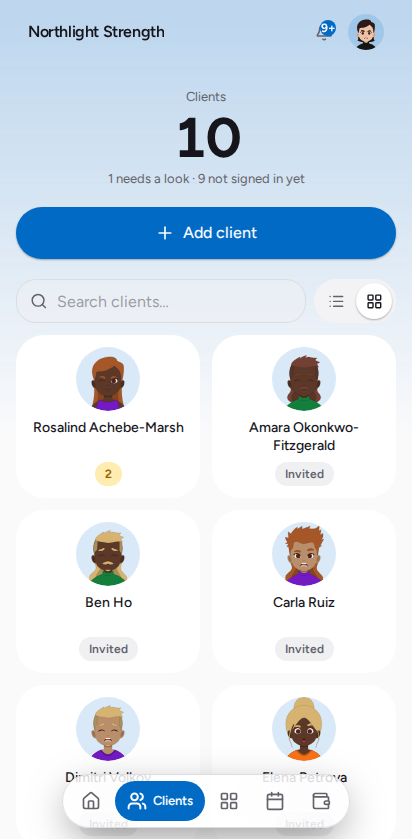
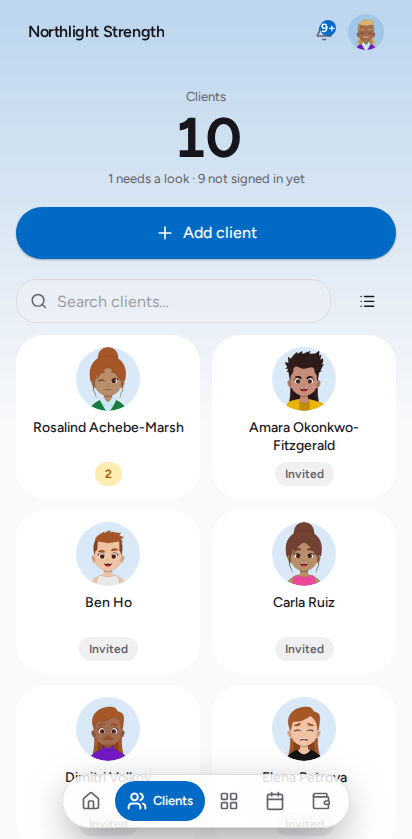
Pin the search, and take the Library's toggle instead of inventing one
THE SEARCH IS ALWAYS THERE. It appeared at eight items, on the reasoning that a
search box above four rows is a control asking to be used on a list you can
already see. That is true of the CONTROL and false of the HEADER: one that grows
a field when the ninth item arrives changes shape under someone who has already
learned it, and until then the screen looks like a screen you cannot search —
which is the thing people ask about. Every app this borrows from keeps it
pinned. It also removed the box mid-keystroke, since the query changes the count
that decided whether to show the box.

THE TOGGLE IS THE LIBRARY'S. I built a two-button segmented pill, which is the
shape you reach for when the choice is a setting. It is not: there are exactly
two views and you are always in one of them, so half the pill is permanently a
no-op occupying the width the search field wants. The Library already had the
right answer — one ghost button carrying the icon of the OTHER view, labelled
with where it takes you — and that is now the shared `ViewToggle`, with both
Library collections switched onto it.

Which also fixed something the Library did not know it had: its view reset to
the list on every visit, because the state was a plain `useState`. Both
libraries now use `useCollectionView`, so the choice is remembered per
collection the way the roster's is — the thing that makes a view worth switching
more than once.

No `aria-pressed` on it. It is a button that switches, not a toggle holding a
[…]

diff --git a/packages/ui/src/collection.tsx b/packages/ui/src/collection.tsx
@@ -28,11 +28,11 @@
  * owns what one item looks like.
  */
 
-import { useRef, useState, type ReactNode } from "react";
+import { useState, type ReactNode } from "react";
 import { motion } from "motion/react";
 import { LayoutGrid, List, Search, type LucideIcon } from "./lib/icons.js";
 import { contentIn, contentStagger } from "./lib/animation.js";
-import { Field } from "./primitives.js";
+import { Button, Field } from "./primitives.js";
 import { EmptyState } from "./shell.js";
 import { LoadError } from "./patterns.js";
 import { SkeletonLine, SkeletonList } from "./skeleton.js";
@@ -92,14 +92,6 @@ export interface CollectionProps<T> {
   /** Controlled search. Omit for a collection nobody would search. */
   query?: string;
   onQuery?: (q: string) => void;
-  /**
-   * How many items before the search box appears.
-   *
-   * A search box above four rows is a control asking to be used on a list you
-   * can already see (§7). Eight is where scrolling starts being the
-   * alternative on a phone.
-   */
-  searchFrom?: number;
 
   /** The one primary action, on the header row beside the controls. */
   action?: ReactNode;
@@ -122,7 +114,6 @@ export function Collection<T>({
   onView,
   query,
   onQuery,
-  searchFrom = 8,
   action,
   empty,
   renderList,
@@ -133,16 +124,19 @@ export function Collection<T>({
   const searching = Boolean(query?.trim());
   const grid = view === "grid" && Boolean(renderGrid);
   /*
-   * The search box stays once it has appeared.
+   * The search box is always there, if the collection has one at all.
    *
-   * Its trigger is the item count, and the query CHANGES the item count — so a
-   * search that narrows the list past the threshold would remove the control
-   * being typed into, mid-keystroke. A ref rather than state: this only ever
-   * latches on, so it never needs to cause a render of its own.
+   * It used to appear at eight items, on the reasoning that a search above four
+   * rows is a control asking to be used on a list you can already see. That is
+   * true of the control and false of the HEADER: a header that grows a field
+   * when the ninth item is added changes shape under someone who has learned
+   * it, and until then the screen looks like a screen you cannot search — which
+   * is the thing people ask about. Every app this borrows from keeps it pinned.
+   *
+   * It also removed the box mid-keystroke, since the query changes the count
+   * that decided whether to show the box.
    */
-  const wasSearchable = useRef(false);
-  if ((items?.length ?? 0) >= searchFrom) wasSearchable.current = true;
-  const showSearch = Boolean(onQuery) && (wasSearchable.current || searching);
+  const showSearch = Boolean(onQuery);
 
   const header = (showSearch || onView || action) && (
     <div className="flex items-center gap-2">
@@ -218,36 +212,36 @@ export function Collection<T>({
 }
 
 /**
- * List or grid. Two icon buttons rather than a labelled segmented control: it
- * sits on a row with a search field and a primary action, and words there cost
- * the search box the width it needs on a phone.
+ * List or grid — ONE button, showing where it takes you.
+ *
+ * This was a two-button segmented pill, which is the shape you reach for when
+ * the choice is a setting. It is not: there are exactly two views and you are
+ * always in one of them, so the second button is permanently a no-op taking up
+ * the width the search field wants. A single control carrying the icon of the
+ * OTHER view says the same thing in half the space and reads as an action
+ * rather than as configuration — which is what the Library had already got
+ * right, and this is now the one implementation both use.
+ *
+ * The label names the DESTINATION for the same reason ("Show as a grid"), and
+ * there is no `aria-pressed`: this is not a toggle button holding a state, it
+ * is a button that switches.
  */
 export function ViewToggle({ value, onChange, noun }: {
   value: CollectionView;
   onChange: (v: CollectionView) => void;
   noun?: string;
 }) {
-  const opts = [
-    { v: "list" as const, icon: List, label: `Show ${noun ?? "items"} as a list` },
-    { v: "grid" as const, icon: LayoutGrid, label: `Show ${noun ?? "items"} as a grid` },
-  ];
+  const next = value === "list" ? "grid" : "list";
+  const Icon = value === "list" ? LayoutGrid : List;
   return (
-    <div role="group" className="flex shrink-0 items-center gap-0.5 rounded-full bg-surface-2 p-1">
-      {opts.map((o) => (
-        <button
-          key={o.v}
-          onClick={() => onChange(o.v)}
-          aria-label={o.label}
-          aria-pressed={value === o.v}
-          className={cn(
-            "grid size-9 place-items-center rounded-full outline-none ring-ring transition-colors focus-visible:ring-2 [&_svg]:size-[1.05rem]",
-            value === o.v ? "bg-card text-foreground shadow-sm" : "text-muted-foreground hover:text-foreground",
-          )}
-        >
-          <o.icon aria-hidden />
-        </button>
-      ))}
-    </div>
+    <Button
+      variant="ghost"
+      className="shrink-0"
+      aria-label={`Show ${noun ?? "items"} as a ${next}`}
+      onClick={() => onChange(next)}
+    >
+      <Icon aria-hidden />
+    </Button>
   );
 }
 

diff --git a/apps/app/src/screens/coach/Library.tsx b/apps/app/src/screens/coach/Library.tsx
@@ -2,7 +2,7 @@
 
 import { useCallback, useEffect, useState, type ReactNode } from "react";
 import { useNavigate, useParams } from "react-router-dom";
-import { Button, Card, Badge, Field, Textarea, Sheet, Skeleton, SegmentedControl, Chip, Page, Stagger, EmptyState, cn, Reveal, SkeletonRow, SkeletonLine, Avatar, Search, Plus, Trash2, Archive, AlertTriangle, Dumbbell, Utensils, LayoutGrid, List, PencilLine, ArrowLeftRight, Ellipsis, Send, History, Group, Row } from "@4dl/ui";
+import { Button, Card, Badge, Field, Textarea, Sheet, Skeleton, SegmentedControl, Chip, Page, Stagger, EmptyState, cn, Reveal, SkeletonRow, SkeletonLine, Avatar, Search, Plus, Trash2, Archive, AlertTriangle, Dumbbell, Utensils, LayoutGrid, PencilLine, ArrowLeftRight, Ellipsis, Send, History, Group, Row, ViewToggle, useCollectionView } from "@4dl/ui";
 import { MacroInline } from "../../registry/index.js";
 import { api } from "../../api.js";
 import { useCan } from "../../FeatureLock.js";
@@ -41,7 +41,9 @@ type ExEdit = { exerciseId?: string; initial?: Partial<ExerciseInfo> };
 function Exercises() {
   const [q, setQ] = useState("");
   const [items, setItems] = useState<LibraryExercise[] | null>(null);
-  const [view, setView] = useState<"list" | "grid">("list");
+  // Remembered, like every other collection's view — this one used to reset to
+  // the list on every visit, which is why nobody switched it twice.
+  const [view, setView] = useCollectionView("exercises");
   // Browse facets, composed with search — lifted from the plan-builder's picker.
   const [muscle, setMuscle] = useState<string | null>(null);
   const [equip, setEquip] = useState<string | null>(null);
@@ -94,7 +96,9 @@ function Exercises() {
     <div className="space-y-3">
       <div className="flex items-end gap-2">
         <Field className="flex-1" label="Search exercises" icon={Search} value={q} onChange={(e) => setQ(e.target.value)} />
-        <Button variant="ghost" aria-label={view === "list" ? "Grid view" : "List view"} onClick={() => setView((v) => (v === "list" ? "grid" : "list"))}>{view === "list" ? <LayoutGrid /> : <List />}</Button>
+        {/* The shared toggle — this screen is where the shape came from, and
+            keeping a second copy of it here is how the two drift. */}
+        <ViewToggle value={view} onChange={setView} noun="exercises" />
         <Button variant="tonal" aria-label="New exercise" onClick={() => setEditor({})}><Plus /></Button>
       </div>
       {/* A rail with a single option filters nothing — tapping it narrows the
@@ -244,7 +248,7 @@ function Foods() {
   const units = useUnits();
   const [q, setQ] = useState("");
   const [items, setItems] = useState<FoodRow[] | null>(null);
-  const [view, setView] = useState<"list" | "grid">("list");
+  const [view, setView] = useCollectionView("foods");
   // Browse facets, composed with search — mirrors the exercise library.
   const [kind, setKind] = useState<"whole" | "branded" | null>(null);
   const [owner, setOwner] = useState<"seed" | "shared" | "private" | null>(null);
@@ -287,7 +291,9 @@ function Foods() {
     <div className="space-y-3">
       <div className="flex items-end gap-2">
         <Field className="flex-1" label="Search foods" icon={Search} value={q} onChange={(e) => setQ(e.target.value)} />
-        <Button variant="ghost" aria-label={view === "list" ? "Grid view" : "List view"} onClick={() => setView((v) => (v === "list" ? "grid" : "list"))}>{view === "list" ? <LayoutGrid /> : <List />}</Button>
+        {/* The shared toggle — this screen is where the shape came from, and
+            keeping a second copy of it here is how the two drift. */}
+        <ViewToggle value={view} onChange={setView} noun="foods" />
         <Button variant="tonal" aria-label="New food" onClick={() => setEditor({})}><Plus /></Button>
       </div>
       {items && (kinds.length > 1 || owners.length > 1) && (

diff --git a/UI-LANGUAGE.md b/UI-LANGUAGE.md
@@ -627,12 +627,23 @@ templates — is a COLLECTION, and they all behave the same way. Consistency her
 is worth more than per-screen cleverness: the reader learns one set of controls
 and then knows every list in the product.
 
-- **Search appears when the list outgrows the screen, and not before.** A search
-  box above four rows is a control asking to be used on a list you can already
-  see. Above the fold once scrolling is the alternative.
+- **The search box is PINNED, not conditional.** It was previously revealed at
+  eight items, on the reasoning that a search above four rows is a control
+  asking to be used on a list you can already see. True of the control, false of
+  the HEADER: one that grows a field when the ninth item arrives changes shape
+  under someone who has already learned it, and until then the screen looks like
+  a screen you cannot search — which is the thing people ask about. It also
+  removed the box mid-keystroke, because the query changes the count that
+  decided whether to show the box.
 - **List and grid are both first-class**, and the choice is the reader's. A list
   favours identity and status; a grid favours images and scanning. Neither is
   correct for everyone, which is why it is a toggle and not a decision.
+- **The toggle is ONE button carrying the icon of the other view**, labelled
+  with the destination ("Show as a grid"). A two-button segmented pill is the
+  shape for a setting; this is not one — there are exactly two views and you are
+  always in one, so half the pill is permanently a no-op occupying the width the
+  search field wants. No `aria-pressed`: it is a button that switches, not a
+  toggle holding a state.
 - **The choice is REMEMBERED, per collection, per device.** A view that resets
   on every visit is a view nobody switches twice. It is a display preference —
   it survives sign-out, like the theme, and it is never account data.
